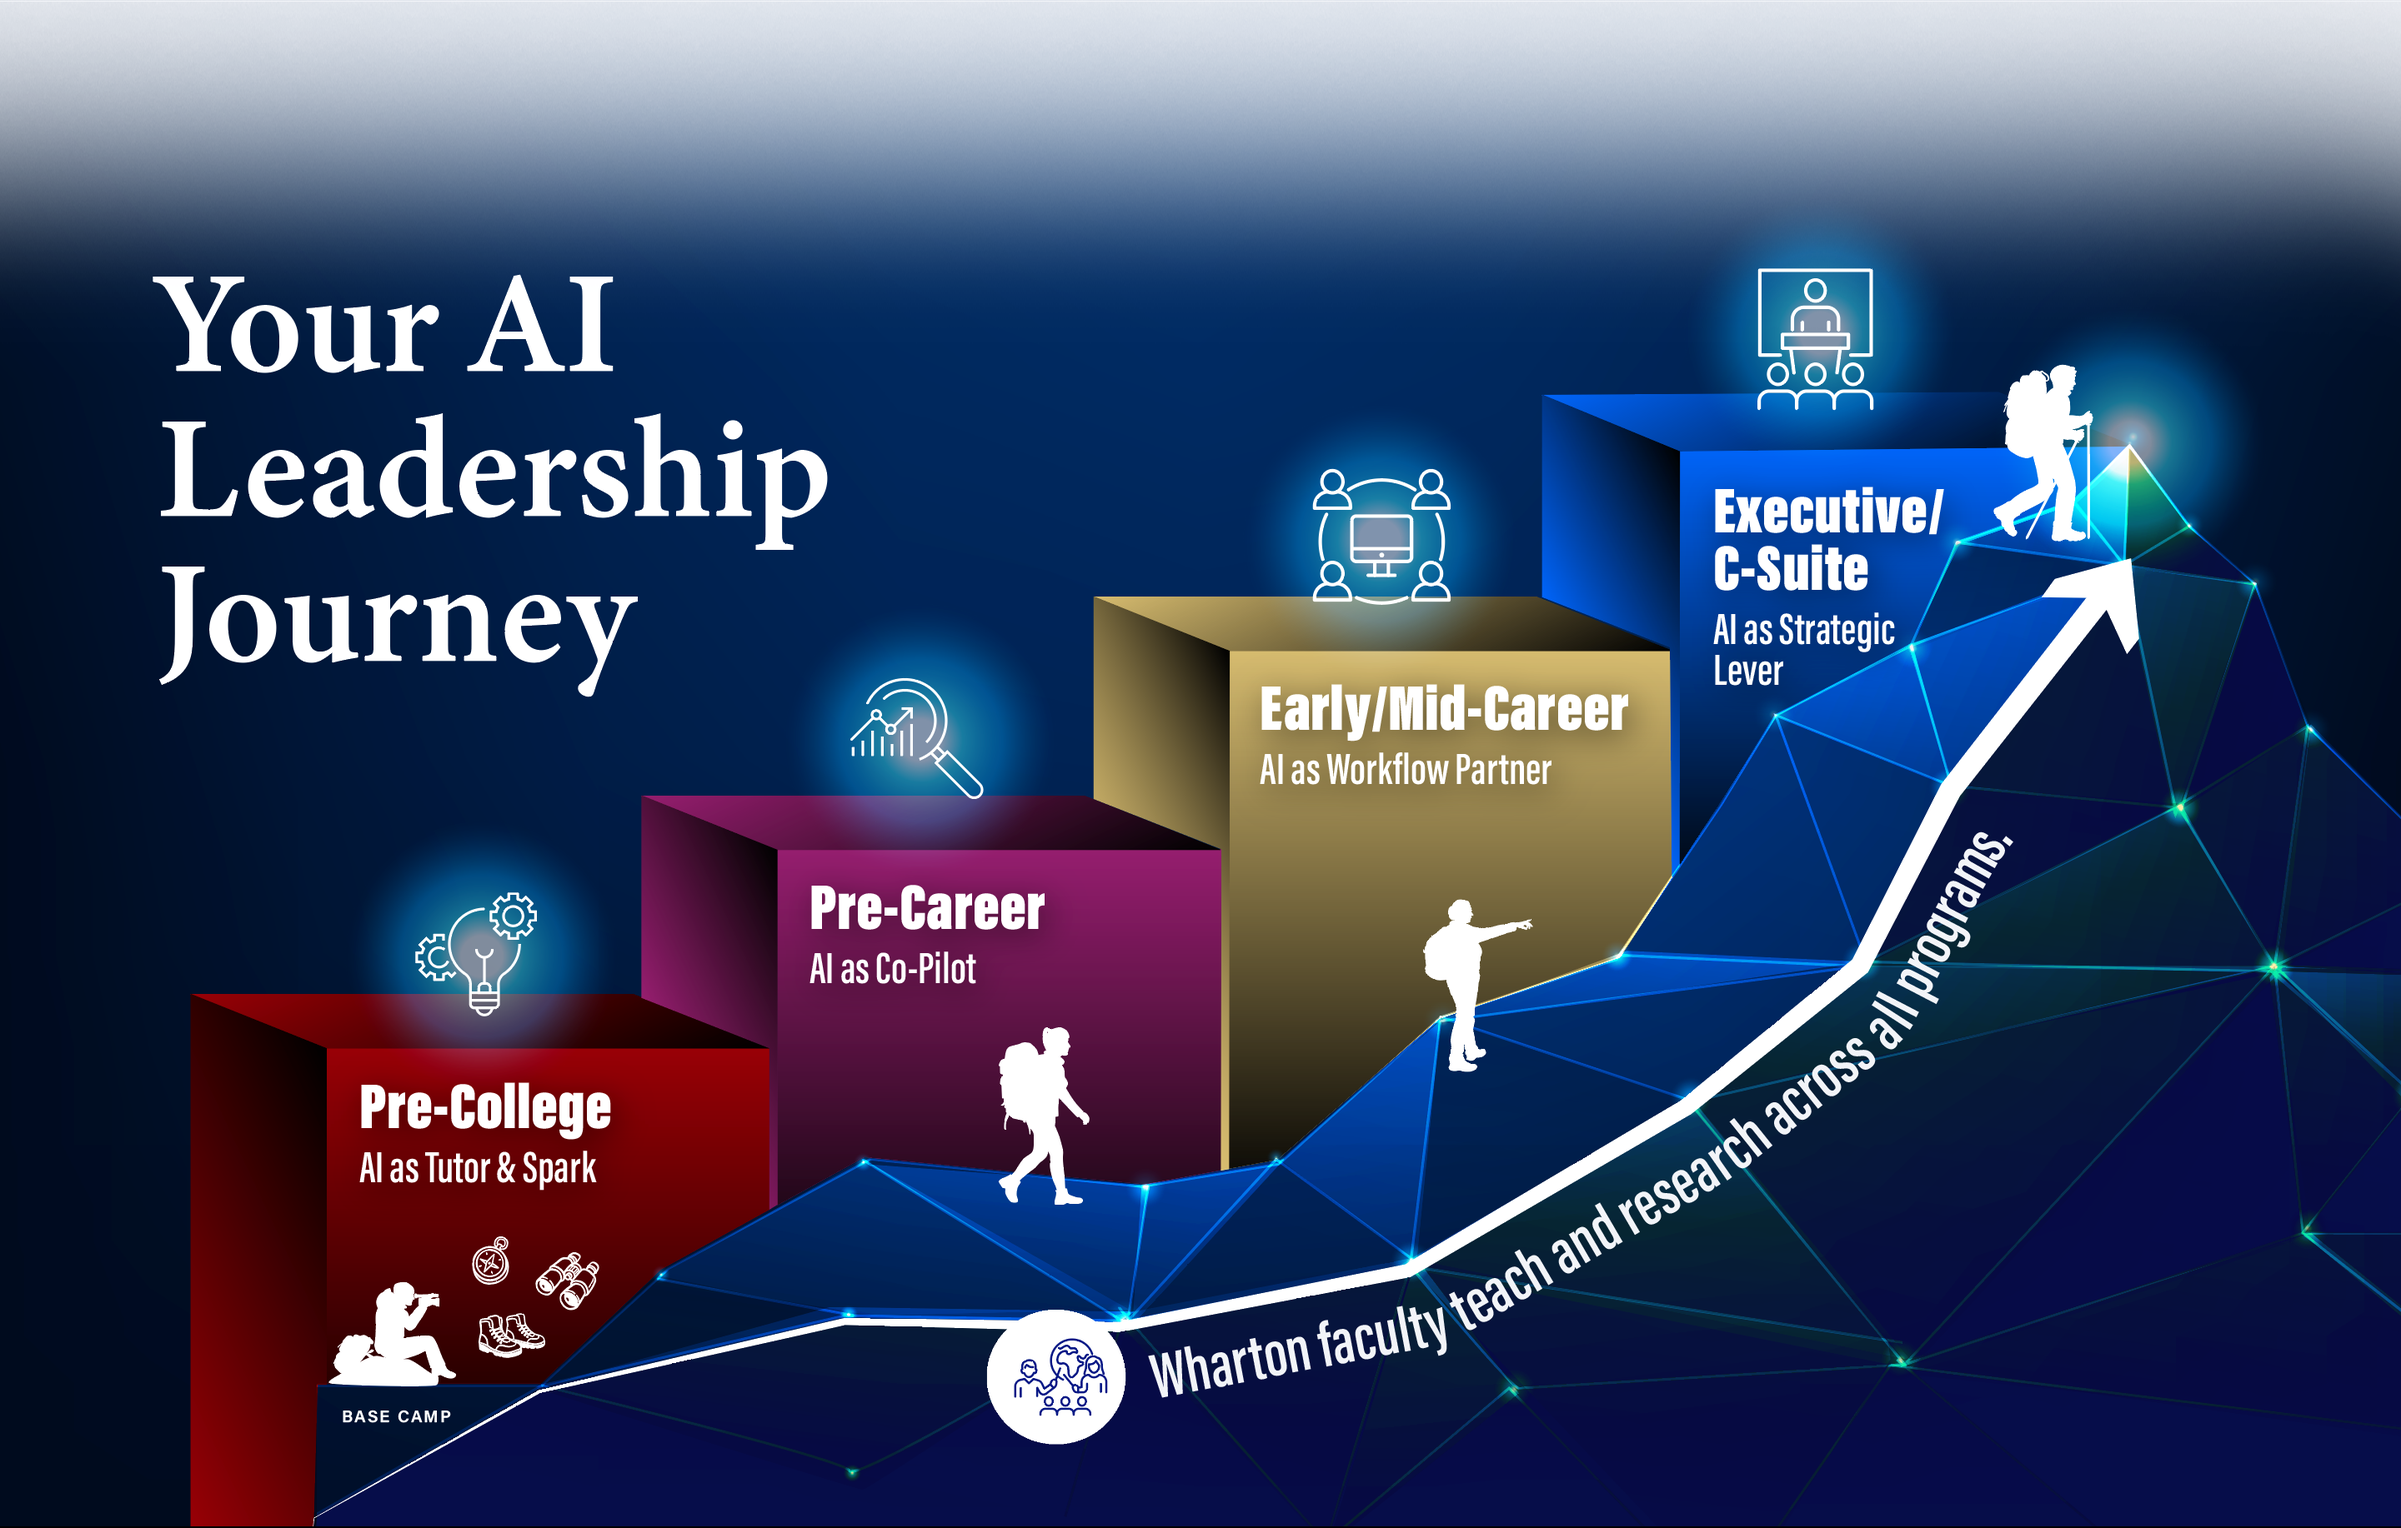
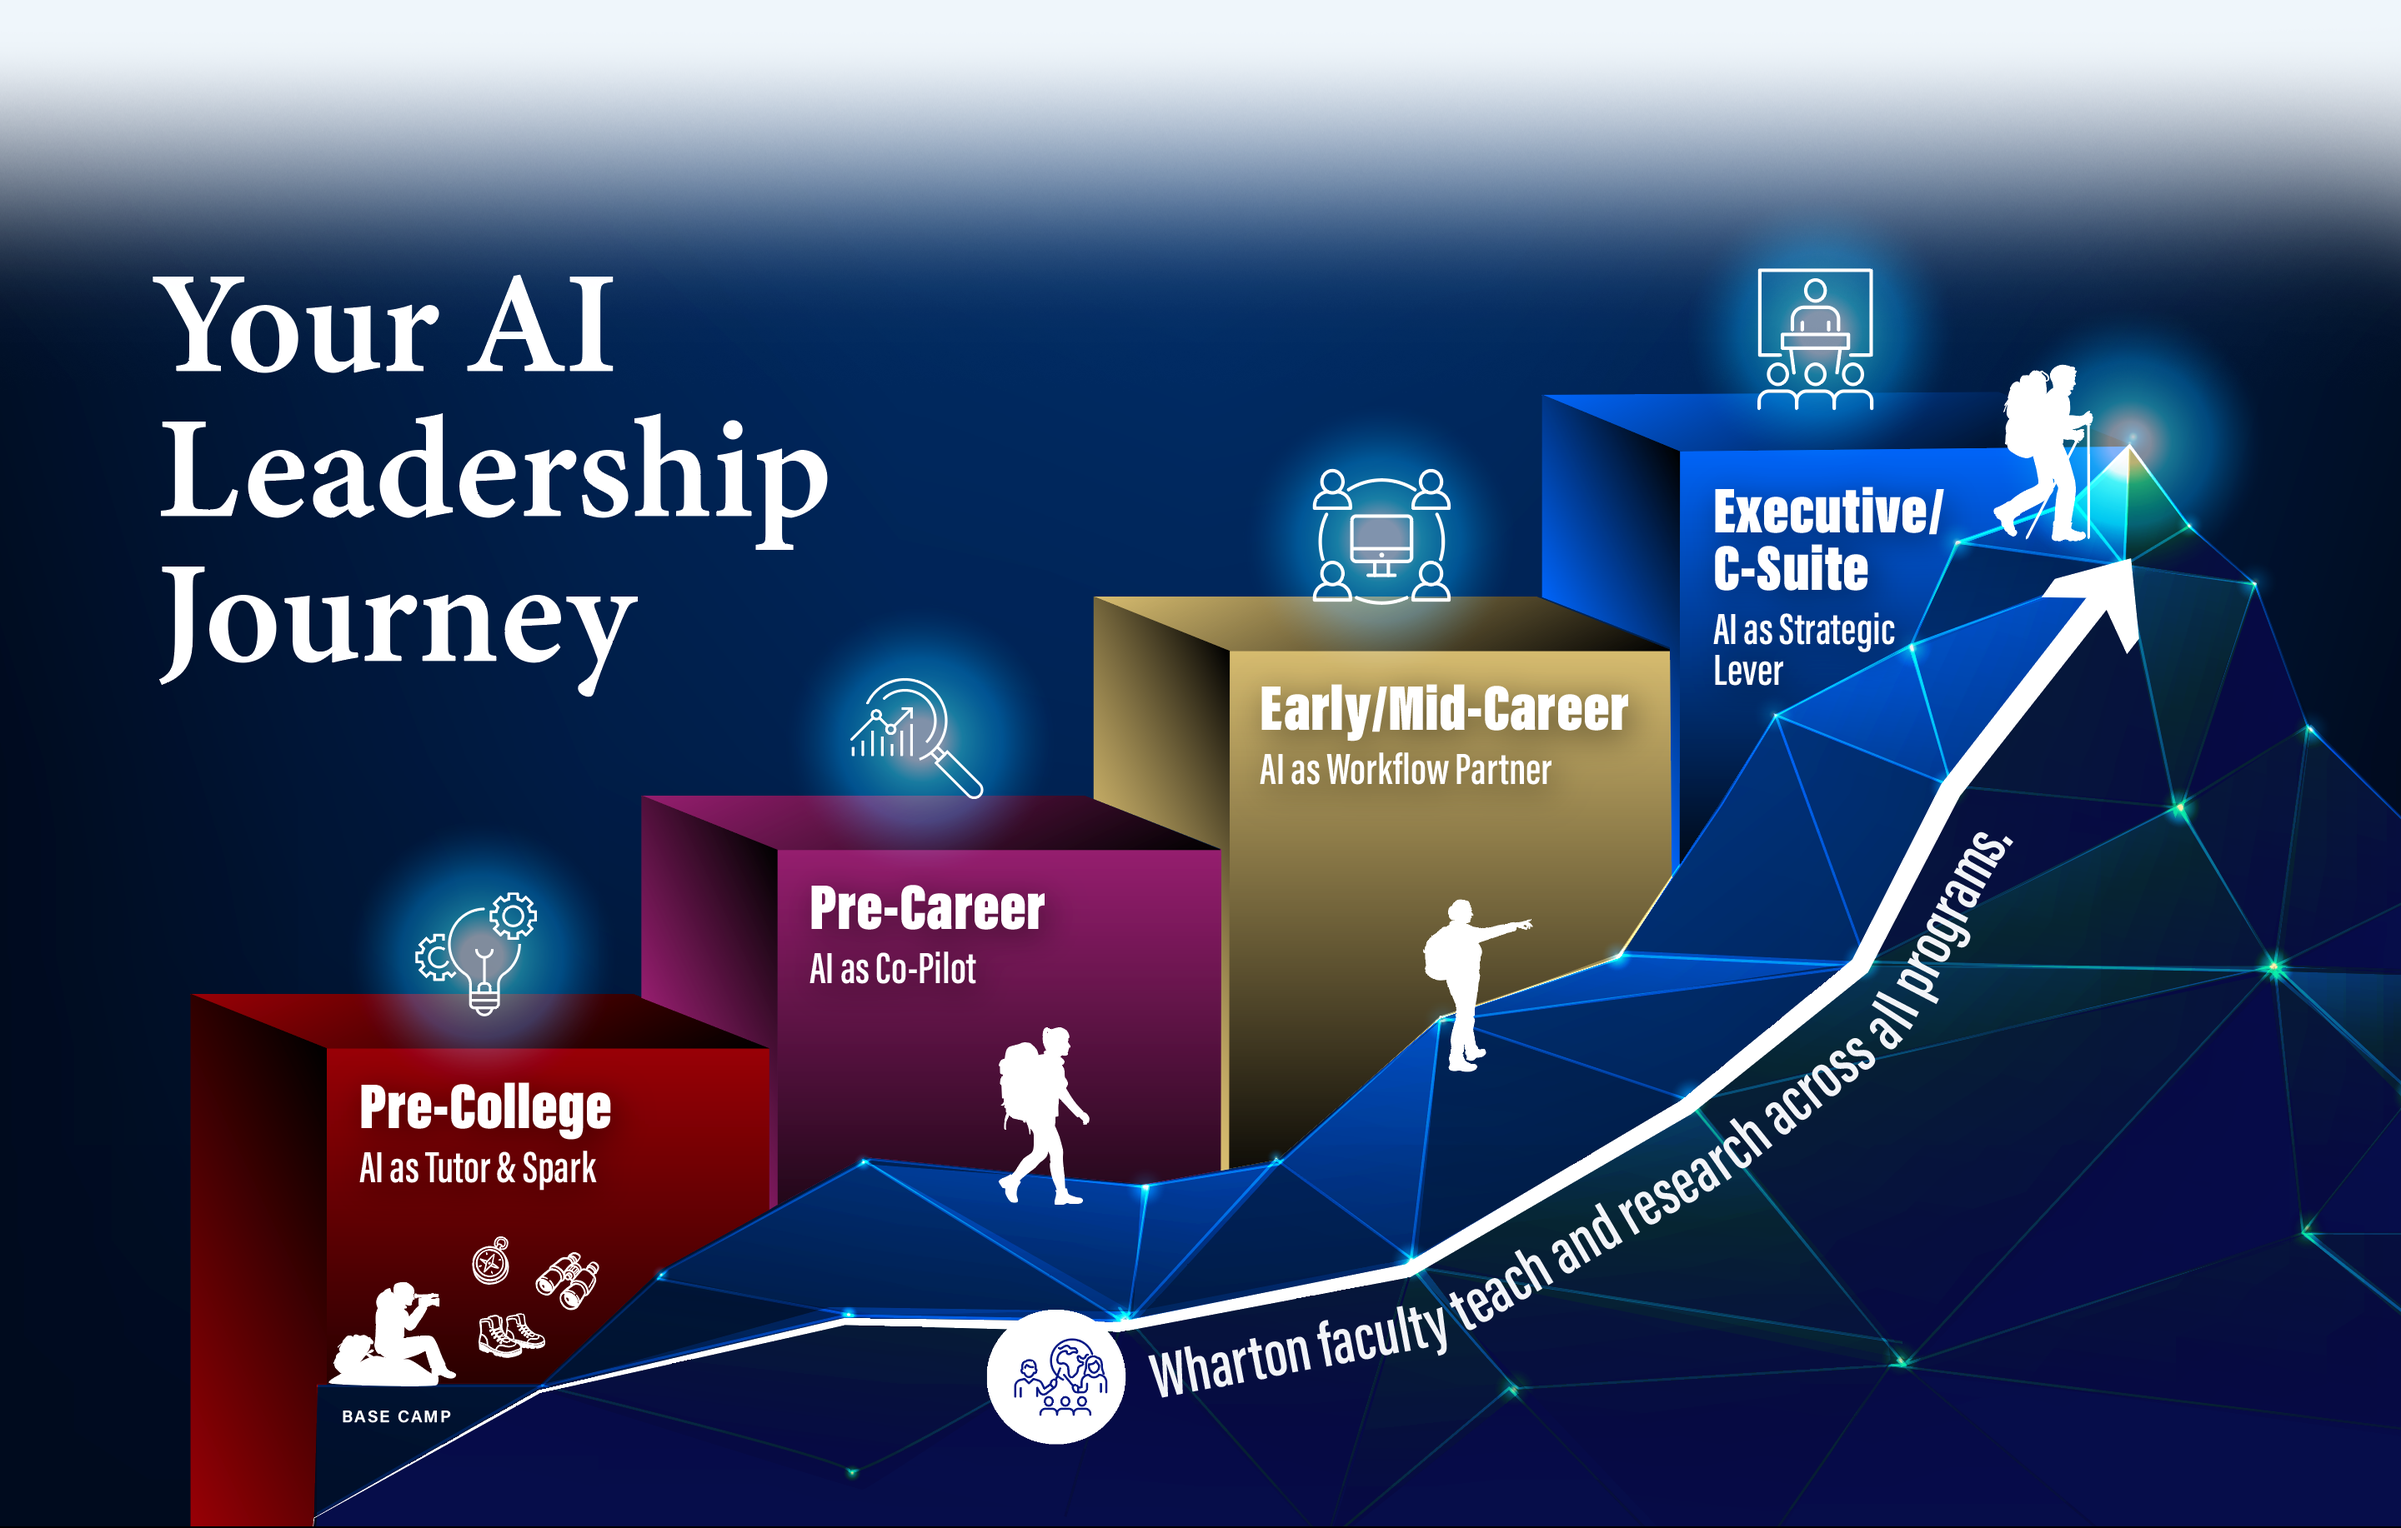
Make journey infographic full-bleed and flush with the next section

Changed region(s): [[0.0, 0.0, 1.0, 0.1243]]

diff --git a/src/styles/site.css b/src/styles/site.css
@@ -57,7 +57,12 @@
   /* The journey infographic carries its own title, stage labels, and faculty
      line, so the section renders as the image alone. The eyebrow, heading, and
      text stay in the DOM for assistive technology and document structure. */
-  #ai-leadership-journey { overflow: hidden; background: #eef5fb; }
+  #ai-leadership-journey { overflow: hidden; padding-block: 0; background: transparent; }
+  #ai-leadership-journey .u-container {
+    inline-size: 100%;
+    max-inline-size: none;
+    margin-inline: 0;
+  }
   #ai-leadership-journey .p-feature-row { grid-template-columns: 1fr; gap: 0; }
   #ai-leadership-journey .p-feature-row__content {
     position: absolute;
@@ -72,6 +77,7 @@
   }
   #ai-leadership-journey .p-feature-row__media { inline-size: 100%; }
   #ai-leadership-journey .p-feature-row__media img {
+    display: block;
     inline-size: 100%;
     block-size: auto;
     aspect-ratio: auto;
